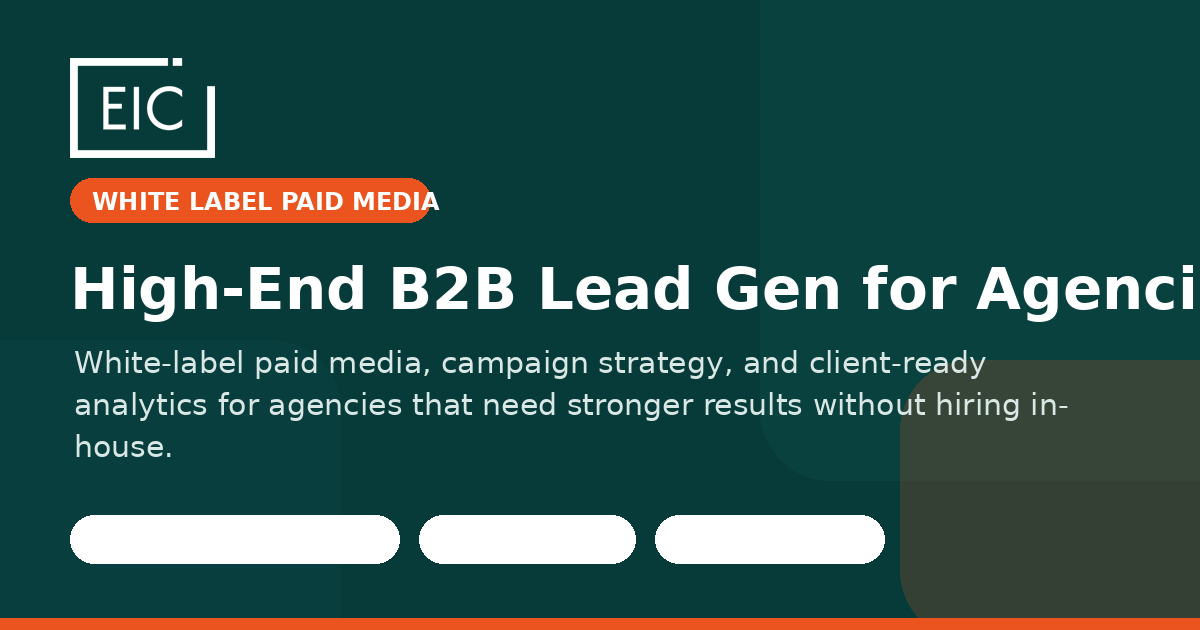
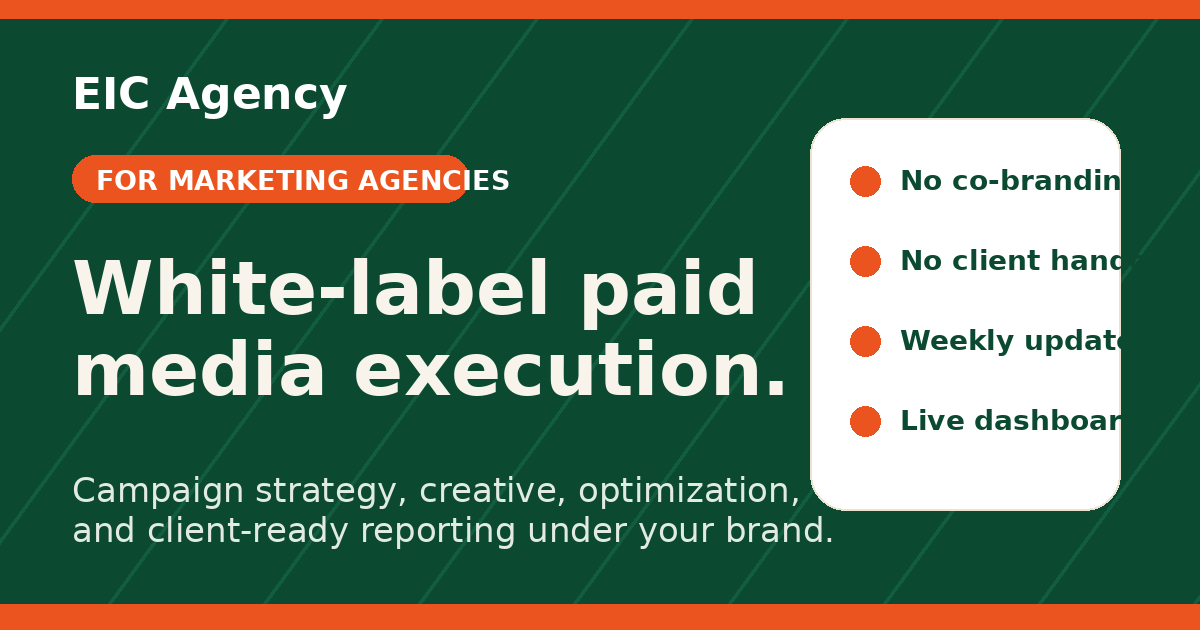
Refine EIC metadata for marketing agencies

diff --git a/src/app/resources/page.tsx b/src/app/resources/page.tsx
@@ -5,24 +5,24 @@ import { formatResourceDate, resourcePosts } from '@/lib/resources';
 const socialImage = '/og-eic-white-label-paid-media.png';
 
 export const metadata = {
-  title: 'B2B Paid Media Resources',
+  title: 'White Label Paid Media Resources',
   description:
-    'White-label paid media resources, B2B lead generation frameworks, and client analytics thinking for agencies building a stronger performance offer.',
+    'White-label paid media resources, lead generation frameworks, and client analytics thinking for marketing agencies building a stronger performance offer.',
   alternates: {
     canonical: '/resources',
   },
   openGraph: {
-    title: 'B2B Paid Media Resources | EIC Agency',
+    title: 'White Label Paid Media Resources | EIC Agency',
     description:
-      'White-label paid media resources, B2B lead generation frameworks, and client analytics thinking for agencies building a stronger performance offer.',
+      'White-label paid media resources, lead generation frameworks, and client analytics thinking for marketing agencies building a stronger performance offer.',
     url: '/resources',
     images: [socialImage],
   },
   twitter: {
     card: 'summary_large_image',
-    title: 'B2B Paid Media Resources | EIC Agency',
+    title: 'White Label Paid Media Resources | EIC Agency',
     description:
-      'White-label paid media resources, B2B lead generation frameworks, and client analytics thinking for agencies building a stronger performance offer.',
+      'White-label paid media resources, lead generation frameworks, and client analytics thinking for marketing agencies building a stronger performance offer.',
     images: [socialImage],
   },
 };
@@ -45,7 +45,7 @@ export default function ResourcesPage() {
               Resources
             </div>
             <h1 className="text-5xl font-semibold tracking-[-0.06em] text-brand-forest sm:text-6xl lg:text-7xl">
-              Practical thinking for B2B growth and White Label performance advertising.
+              Practical thinking for marketing agency growth and white-label performance advertising.
             </h1>
             <p className="mt-7 max-w-3xl text-lg leading-8 text-slate-600 sm:text-xl">
               Frameworks, campaign breakdowns, case-study style lessons, and measurement ideas from the same team building EIC’s performance advertising system.

diff --git a/src/app/page.tsx b/src/app/page.tsx
@@ -170,7 +170,7 @@ const proofPoints = [
   'Live dashboards built on a real data layer — spend, leads, campaigns, creative, and budget pacing — so your clients always know what they are getting without waiting for a report.',
   'Monday updates are built from internal campaign conversations happening 2–3 times a week. The narrative your clients read is grounded in real strategist and ad manager notes — not generated from thin air.',
   'The AI assistant is connected to your live campaign data and internal notes. Ask why CPL went up last month and get an answer backed by actual account context.',
-  'eCommerce and B2B lead gen covered — Google, Meta, LinkedIn, YouTube, and beyond. Full-funnel from first click to closed revenue.',
+  'Lead generation and eCommerce covered — Google, Meta, LinkedIn, YouTube, and beyond. Full-funnel from first click to closed revenue.',
 ];
 
 const resourcePosts = [
@@ -204,7 +204,7 @@ const caseStudies = [
   },
   {
     title: '7x ROAS Increase, 85.5% CPL Reduction',
-    copy: 'Launched B2B lead generation campaigns, set up reliable lead and sales tracking, overhauled and optimized active campaigns.',
+    copy: 'Launched lead generation campaigns, set up reliable lead and sales tracking, overhauled and optimized active campaigns.',
     href: 'https://drive.google.com/file/d/1J3KJWxZPju3VEo0TVtpinGldSeOqjpRF/view',
     image: '/proof/spartaco-case-study-thumb.jpg',
     label: 'Download',
@@ -753,7 +753,7 @@ export default function HomePage() {
                   Performance advertising work that has to hold up beyond a pretty report.
                 </h2>
                 <p className="mt-5 text-lg leading-8 text-slate-600">
-                  eCommerce, B2B lead gen, multi-location, SaaS, and industrial — backed by the same reporting system agencies use to make confident client presentations.
+                  eCommerce, lead generation, multi-location, SaaS, and industrial — backed by the same reporting system agencies use to make confident client presentations.
                 </p>
               </div>
 
@@ -768,7 +768,7 @@ export default function HomePage() {
                 <div className="grid gap-3 sm:grid-cols-3">
                   {[
                     'eCommerce performance across Google, Meta, and retargeting',
-                    'B2B lead gen: pipeline, MQL, SQL, and revenue-tied reporting',
+                    'Lead generation: pipeline, qualified-lead, and revenue-tied reporting',
                     'Multi-channel creative testing with documented impact',
                   ].map((item) => (
                     <div key={item} className="rounded-3xl bg-brand-forest p-5 text-sm font-semibold leading-6 text-white/80">

diff --git a/src/app/eic-schedule-demo/page.tsx b/src/app/eic-schedule-demo/page.tsx
@@ -55,14 +55,14 @@ const caseStudies = [
 export const metadata = {
   title: 'Schedule a White Label Paid Media Demo',
   description:
-    'Book a 30-minute call to see how EIC helps agencies add white-label B2B lead generation, paid media execution, and client-ready analytics.',
+    'Book a 30-minute call to see how EIC helps marketing agencies add white-label paid media execution, creative production, and client-ready analytics.',
   alternates: {
     canonical: '/eic-schedule-demo',
   },
   openGraph: {
     title: 'Schedule a White Label Paid Media Demo | EIC Agency',
     description:
-      'Book a 30-minute call to see how EIC helps agencies add white-label B2B lead generation, paid media execution, and client-ready analytics.',
+      'Book a 30-minute call to see how EIC helps marketing agencies add white-label paid media execution, creative production, and client-ready analytics.',
     url: '/eic-schedule-demo',
     images: [socialImage],
   },
@@ -70,7 +70,7 @@ export const metadata = {
     card: 'summary_large_image',
     title: 'Schedule a White Label Paid Media Demo | EIC Agency',
     description:
-      'Book a 30-minute call to see how EIC helps agencies add white-label B2B lead generation, paid media execution, and client-ready analytics.',
+      'Book a 30-minute call to see how EIC helps marketing agencies add white-label paid media execution, creative production, and client-ready analytics.',
     images: [socialImage],
   },
 };

diff --git a/src/app/layout.tsx b/src/app/layout.tsx
@@ -6,9 +6,9 @@ import './globals.css';
 const inter = Inter({ subsets: ['latin'] });
 const gtmId = 'GTM-WK4CVLC';
 
-const siteTitle = 'White Label Paid Media for B2B Agencies | EIC Agency';
+const siteTitle = 'White Label Paid Media for Marketing Agencies | EIC Agency';
 const siteDescription =
-  'EIC Agency helps agencies add high-end B2B lead generation, paid media execution, and client-ready analytics without hiring an in-house media team.';
+  'Add white-label paid media to your marketing agency with campaign execution, creative production, live dashboards, and client-ready reporting under your brand.';
 const siteUrl = 'https://eic.agency';
 const socialImage = '/og-eic-white-label-paid-media.png';
 
@@ -34,7 +34,7 @@ export const metadata: Metadata = {
         url: socialImage,
         width: 1200,
         height: 630,
-        alt: 'EIC Agency white label paid media for B2B agencies',
+        alt: 'EIC Agency white label paid media for marketing agencies',
       },
     ],
   },